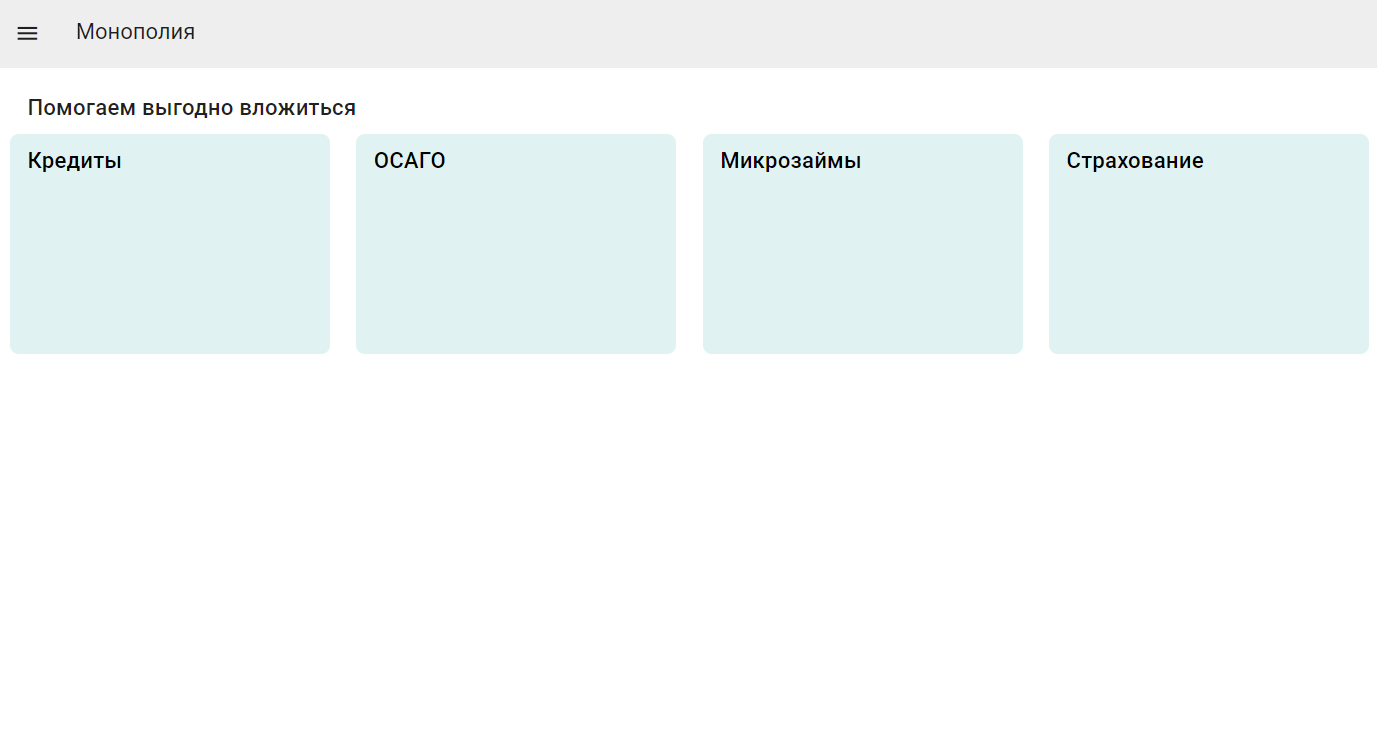
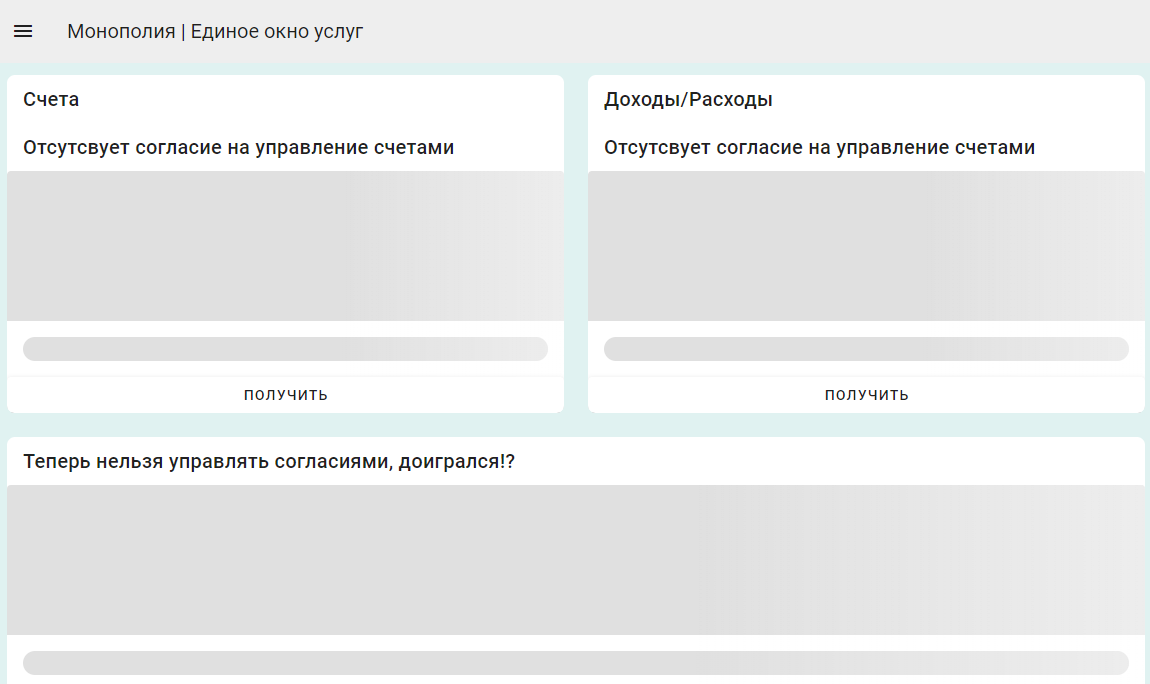
removed some feature

diff --git a/src/views/TheMonopoly.vue b/src/views/TheMonopoly.vue
@@ -1,15 +1,10 @@
 <template>
-    <v-card>
+    <v-card color="teal-lighten-5" class="overflow-y-auto">
         <transition name="slide-fade">
             <v-list v-if="showProducts"
                     style="position: sticky; left: 0; top: 0; height: 100%"
+                    class="overflow-y-auto"
             >
-                <v-list-item>
-                    <v-list-item-action>
-                        <v-icon icon="mdi-close" v-on:click="showProducts = false"></v-icon>
-                    </v-list-item-action>
-                </v-list-item>
-
                 <v-list-group
                         v-for="product of products"
                         :key="`nav-product-${product.id}`"
@@ -33,27 +28,132 @@
         </transition>
 
         <v-toolbar dark>
-            <v-app-bar-nav-icon v-on:click="showProducts = !showProducts"></v-app-bar-nav-icon>
+            <v-app-bar-nav-icon v-on:click="showProducts = !showProducts" :icon="showProducts ? 'mdi-close': 'mdi-menu'"></v-app-bar-nav-icon>
 
             <v-toolbar-title>
-                Монополия
+                Монополия | Единое окно услуг
             </v-toolbar-title>
 
         </v-toolbar>
 
         <div class="monopoly__main-container pa-3">
-            <v-card-title>
-                Помогаем выгодно вложиться
-            </v-card-title>
             <v-row>
-                <v-col
-                        v-for="product of getNTop(4)"
-                        :key="`service-${product.id}`"
-                >
-                    <v-card variant="flat" color="teal-lighten-5" rounded="lg" height="200">
+                <v-col cols="6">
+                    <v-card variant="flat" rounded="lg">
                         <v-card-title>
-                            {{product.name}}
+                            Счета
                         </v-card-title>
+                        <template v-if="true">
+                        <v-row v-for="account of accounts" :key="`bank-account-${account.idx}`" class="px-2">
+                            <v-col cols="12" class="py-0">
+                                <v-card rounded="lg" elevation="0" style="background-color: rgba(255,255,255,0.5)">
+                                    <v-card-subtitle class="pt-4">{{account.name}}</v-card-subtitle>
+                                    <v-card-title class="py-0">{{Math.floor(account.amount / 100).toString().match(/\d{1,3}/g).join(' ')}},{{account.amount % 100}} ₽</v-card-title>
+                                    <v-card-actions>
+                                        <v-btn
+                                                v-for="action of account.actions"
+                                                :key="`bank-account-action-${account.idx}-${action.idx}`"
+                                                v-on:click="processLink(action.link)"
+                                                rounded="xl"
+                                        >
+                                            {{action.name}}
+                                        </v-btn>
+                                    </v-card-actions>
+                                </v-card>
+                            </v-col>
+                        </v-row>
+                        </template>
+                        <template v-else>
+                            <v-card-title>Отсутсвует согласие на управление счетами</v-card-title>
+                            <v-skeleton-loader type="card">
+
+                            </v-skeleton-loader>
+                            <v-btn block v-on:click="makeAgreement('Управление счетами')">Получить</v-btn>
+
+                        </template>
+                    </v-card>
+                </v-col>
+                <v-col cols="6">
+                    <v-card variant="flat" rounded="lg">
+                        <v-card-title>
+                            Доходы/Расходы
+                        </v-card-title>
+
+                        <template v-if="true">
+                        <v-progress-linear height="40" :model-value="stat.loanRate" :color="pickHex()">
+
+                        </v-progress-linear>
+
+                        <v-card>
+                            <v-card-title class="pb-0" style="font-weight: 300">Ежемесячный доход: {{Math.floor(stat.income / 100).toString().match(/\d{1,3}/g).join(' ')}},{{stat.income % 100}} ₽</v-card-title>
+                            <v-card-title class="py-0" style="font-weight: 300">Расходы по обязательства: {{Math.floor(stat.payments / 100).toString().match(/\d{1,3}/g).join(' ')}},{{stat.payments % 100}} ₽</v-card-title>
+                            <v-card-title class="py-0" style="font-weight: 300">Обязательств: {{stat.loansCount}}</v-card-title>
+                        </v-card>
+
+                        <v-card-actions>
+                            <v-btn block>
+                                Советы и рекомендации <v-icon icon="mdi-chevron-right"></v-icon>
+                            </v-btn>
+                        </v-card-actions>
+                        </template>
+                        <template v-else>
+                            <v-card-title>Отсутсвует согласие на управление счетами</v-card-title>
+                            <v-skeleton-loader type="card">
+
+                            </v-skeleton-loader>
+                            <v-btn block v-on:click="makeAgreements(['Финансовые услуги','Данные о доходах'])">Получить</v-btn>
+
+                        </template>
+                    </v-card>
+                </v-col>
+                <v-col cols="12">
+                    <v-card variant="flat" rounded="lg">
+
+                        <template v-if="true">
+                        <v-row>
+                            <v-col cols="5">
+                                <v-card-title>
+                                    управление согласиями
+                                </v-card-title>
+                            </v-col>
+                            <v-col cols="2" >
+                                <v-card-title class="text-center">
+                                    Согласие
+                                </v-card-title>
+                            </v-col>
+                            <v-col cols="5">
+                                <v-card-title>
+                                    Потребитель услуг
+                                </v-card-title>
+                            </v-col>
+                        </v-row>
+
+                        <v-list>
+                            <v-list-item
+                                    density="compact"
+                                    v-for="agree of agreements" :key="agree.id"
+                            >
+                                <v-row>
+                                    <v-col cols="5">
+                                        {{agree.name}}
+                                    </v-col>
+                                    <v-col cols="2" class="d-flex flex-row justify-center">
+                                        <v-checkbox density="compact" v-model="agree.agree"></v-checkbox>
+                                    </v-col>
+                                    <v-col cols="5">
+                                        <v-select density="compact" v-model="agree.orgs" :items="financialOrgs" multiple></v-select>
+                                    </v-col>
+                                </v-row>
+
+                            </v-list-item>
+                        </v-list>
+                        </template>
+                        <template v-else>
+                            <v-card-title>
+                                Теперь нельзя управлять согласиями, доигрался!?
+                            </v-card-title>
+                            <v-skeleton-loader type="card"></v-skeleton-loader>
+                        </template>
                     </v-card>
                 </v-col>
             </v-row>
@@ -66,6 +166,72 @@
         name: "TheMonopoly",
         data: () => {
             return {
+                financialOrgs: [
+                    'Монополия'
+                ],
+                stat: {
+                    income: 36571644,
+                    payments: 24310000,
+                    loansCount: 10,
+                    loanRate: 70,
+                },
+                agreements: [{
+                    id: 0,
+                    name: 'Управление счетами',
+                    agree: false,
+                    items: [],
+                    orgs: []
+                }, {
+                    id: 1,
+                    name: 'Финансовые услуги',
+                    agree: false,
+                    items: [],
+                    orgs: []
+                }, {
+                    id: 2,
+                    name: 'Данные о доходах',
+                    agree: false,
+                    items: [],
+                    orgs: []
+                }, {
+                    id: 3,
+                    name: 'Управление согласиями',
+                    agree: true,
+                    items: [],
+                    orgs: ['Монополия']
+                }],
+                accounts: [
+                    {
+                        idx: 0,
+                        name: 'Денежки',
+                        amount: 24035632,
+                        currency: 'rub',
+                        cards: [{
+                            idx: 0,
+                            number: '1111 1111 1111 1111'
+                        }],
+                        actions: [{
+                            idx: 0,
+                            name: 'Перевести',
+                            link: 'transfer'
+                        }]
+                    },
+                    {
+                        idx: 3,
+                        name: 'Счет для погашения кредита',
+                        amount: 10,
+                        currency: 'rub',
+                        cards: [{
+                            idx: 0,
+                            number: '1111 1111 1111 1111'
+                        }],
+                        actions: [{
+                            idx: 1,
+                            name: 'Перевести',
+                            link: 'transfer'
+                        }]
+                    }
+                ],
                 showProducts: false,
                 openedProducts: [],
                 products: [
@@ -255,7 +421,13 @@
                 ]
             }
         },
+        mounted() {
+            this.calculateLoanRate();
+        },
         methods: {
+            calculateLoanRate() {
+                this.stat.loanRate = this.stat.payments / this.stat.income * 100
+            },
             handleLink(link) {
                 console.log(link);
             },
@@ -271,13 +443,74 @@
                 this.products.forEach(product => {
                     allProducts.push(product);
                     product.items.forEach(sub => {
-                      allProducts.push(sub);
+                        allProducts.push(sub);
                     })
                 })
 
                 allProducts = allProducts.sort((a,b) => {return a.rating < b.rating ? 1 : -1});
                 console.log('sorted: ', allProducts);
                 return allProducts.slice(0, n);
+            },
+            processLink(link) {
+                console.log(link);
+            },
+            pickHex() {
+                const color2 = [28, 252, 3];
+                const color1 = [252, 20, 3];
+                const w1 = this.stat.loanRate / 100;
+                const w2 = 1 - w1;
+                return `rgb(${Math.round(color1[0] * w1 + color2[0] * w2)},${Math.round(color1[1] * w1 + color2[1] * w2)},${Math.round(color1[2] * w1 + color2[2] * w2)})`
+            },
+            hasAgreement(zone) {
+                this.agreements.forEach(agreement => {
+                    if(!agreement.agree && agreement.name === zone)
+                        return false;
+
+                    if(agreement.agree && agreement.name === zone && agreement.orgs.indexOf('Монополия') !== -1)
+                        return true;
+
+                    agreement.items.forEach(subagreement => {
+                        if(!subagreement.agree && subagreement.name === zone)
+                            return false;
+
+                        if(subagreement.agree && subagreement.name === zone && subagreement.orgs.indexOf('Монополия') !== -1)
+                            return true;
+                    })
+                })
+
+                return false;
+            },
+            makeAgreement(zone) {
+                this.agreements.forEach(agreement => {
+                    if(agreement.name === zone) {
+                        agreement.orgs.push('Монополия')
+                        agreement.agree = true;
+                    }
+
+                    agreement.items.forEach(sub => {
+                        if(sub.name === zone) {
+                            agreement.orgs.push('Монополия')
+                            agreement.agree = true;
+                        }
+
+                    })
+                })
+            },
+            makeAgreements(zones) {
+                zones.forEach(zone => {
+                    this.makeAgreement(zone);
+                })
+            }
+        },
+        computed: {
+            hasAccountAgreement: function () {
+                return this.hasAgreement('Управление счетами')
+            },
+            hasBudgetAgreement: function() {
+                return this.hasAgreement('Финансовые услуги') && this.hasAgreement('Данные о доходах')
+            },
+            hasAgreementService: function() {
+                return this.hasAgreement('Управление согласиями');
             }
         }
     }

diff --git a/src/App.vue b/src/App.vue
@@ -2,13 +2,13 @@
   <v-app>
     <v-main class="main-display main-display__bg pa-4" v-if="!showPresentation">
         <v-row dense class="mr-3" >
-          <v-col cols="9">
+          <v-col cols="12">
             <router-view class="main-display__main-view"/>
           </v-col>
 
-          <v-col cols="3">
-            <log-display class="main-display__main-view"></log-display>
-          </v-col>
+<!--          <v-col cols="3">-->
+<!--            <log-display class="main-display__main-view"></log-display>-->
+<!--          </v-col>-->
 
           <v-col cols="12">
             <display-switch class="main-display__secondary-view"></display-switch>
@@ -26,7 +26,7 @@
 <script>
 
 import DisplaySwitch from "@/components/DisplaySwitch";
-import LogDisplay from "@/components/LogDisplay";
+// import LogDisplay from "@/components/LogDisplay";
 import ShowPresents from "@/views/ShowPresents";
 
 export default {
@@ -34,7 +34,7 @@ export default {
   components: {
     ShowPresents,
     DisplaySwitch,
-    LogDisplay
+    // LogDisplay
   },
   data: () => ({
     showPresentation: true,
@@ -53,7 +53,8 @@ export default {
   }
 
   .main-display__main-view {
-    height: 80vh;
+    min-height: 80vh;
+    max-height: 80vh;
   }
 
   .main-display {

diff --git a/src/views/StyleBank.vue b/src/views/StyleBank.vue
@@ -87,7 +87,6 @@
                 </v-icon>
             </v-card-subtitle>
             <template v-if="services.length > 0 && isServicesOpened">
-                <v-container>
                 <v-row class="overflow-x-auto flex-nowrap">
                     <v-col v-for="service of services" :key="`service-${service.idx}`" cols="4">
                         <v-card color="indigo" rounded="xl">
@@ -111,7 +110,6 @@
                         </v-card>
                     </v-col>
                 </v-row>
-                </v-container>
             </template>
             <template v-else-if="isServicesOpened">
                 <v-card color="indigo" variant="flat" rounded="xl">

diff --git a/src/views/SMS.vue b/src/views/SMS.vue
@@ -74,7 +74,7 @@
     }
 
     .sms__main-container-adaptive {
-        width: 40%;
+        width: 30%;
     }
     @media screen and (max-width: 960px){
         .sms__main-container-adaptive {
